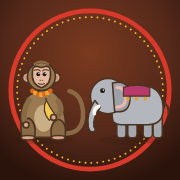
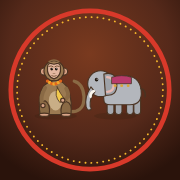
Jogo: macaco e elefantinho menores, dentro do círculo do ícone
Claude-Session: https://claude.ai/code/session_01HNv7nTm5a78VeKaMt6qDpU

Changed region(s): [[0.1111, 0.3056, 0.9444, 0.8056]]

diff --git a/app/sw.js b/app/sw.js
@@ -1,10 +1,10 @@
-// marca: f1057f08d1
+// marca: 44d439da07
 // Guarda o app inteiro no celular para abrir mesmo sem sinal (templo, estrada, wi-fi fraco do hotel).
 const CACHE = "caravana-v6", EXTRA = "caravana-ext", MAPA = "caravana-mapa", MARCAS = "caravana-marcas";
 // lista de arquivos gerada pelo tools/gerar-site.py
 const ARQUIVOS = /*ARQUIVOS*/["index.html", "shim.js", "config.js", "manifest.webmanifest", "jogo.html", "jogo.webmanifest", "dados/geo.json", "dados/saberes/dharma.json", "dados/saberes/ganesha.json", "dados/saberes/kali.json", "dados/saberes/krishna.json", "dados/saberes/lakshmi.json", "dados/saberes/sarasvati.json", "dados/travessia.json", "deuses/brahma.webp", "deuses/durga.webp", "deuses/ganesha.webp", "deuses/ganga.webp", "deuses/hanuman.webp", "deuses/kali.webp", "deuses/krishna.webp", "deuses/lakshmi.webp", "deuses/parvati.webp", "deuses/saraswati.webp", "deuses/shiva.webp", "deuses/surya.webp", "deuses/vishnu.webp", "img/abertura-agra.webp", "img/abertura-delhi.webp", "img/abertura-embarque.webp", "img/abertura-jaipur.webp", "img/abertura-rishikesh.webp", "img/abertura-varanasi.webp", "img/bilhete-og.jpg", "img/bilhete-textura.jpg", "img/cameras/botao-latao.webp", "img/cameras/campo-corpo.jpg", "img/cameras/campo.png", "img/cameras/carteira-foto.jpg", "img/cameras/carteira.webp", "img/cameras/celular-estante.png", "img/cameras/celular.png", "img/cameras/couro-caramelo.webp", "img/cameras/couro-corpo.jpg", "img/cameras/couro-delhi.webp", "img/cameras/couro.png", "img/cameras/descartavel-corpo.jpg", "img/cameras/descartavel-estante.png", "img/cameras/descartavel.png", "img/cameras/estante.jpg", "img/cameras/etiqueta1.png", "img/cameras/etiqueta2.png", "img/cameras/etiqueta3.png", "img/cameras/instantanea-corpo.jpg", "img/cameras/instantanea-estante.png", "img/cameras/instantanea.png", "img/cameras/mala-cheia.jpg", "img/cameras/mala-oito.webp", "img/cameras/mala-papel.webp", "img/cameras/mala.jpg", "img/cameras/maleta-foto.jpg", "img/cameras/quatro-corpo.jpg", "img/cameras/quatro-estante.png", "img/cameras/quatro.png", "img/cameras/rajastao-corpo.jpg", "img/cameras/rajastao-estante.png", "img/cameras/rajastao.png", "img/cameras/super8-corpo.jpg", "img/cameras/super8-estante.png", "img/cameras/super8.png", "img/caravana-marrom.png", "img/cristal.jpg", "img/emblema.jpg", "img/fundo.webp", "img/icone-180.png", "img/icone-192.png", "img/icone-512.png", "img/icone-jogo-180.png", "img/icone-jogo-192.png", "img/icone-jogo-512.png", "img/lacre-escuro.webp", "img/lacre.webp", "img/letreiro.png", "img/lockup-claro.png", "img/logo.png", "img/mantra-ganesha.webp", "img/mantra-vasudeva.webp", "img/papiro.webp", "img/passaporte-capa.webp", "img/passaporte.webp", "img/pedra.webp", "img/planetas/budha.webp", "img/planetas/chandra.webp", "img/planetas/guru.webp", "img/planetas/ketu.webp", "img/planetas/mangala.webp", "img/planetas/rahu.webp", "img/planetas/shani.webp", "img/planetas/shukra.webp", "img/planetas/surya.webp", "img/simbolo-claro.png", "img/simbolo-dourado.png", "img/simbolo-marrom.png", "img/simbolo.png", "img/tenda.webp", "img/textura.jpg", "insignias/batismo.webp", "insignias/beatles-ashram.webp", "insignias/caverna.webp", "insignias/diwali.webp", "insignias/durga-kund.webp", "insignias/embarque.webp", "insignias/galta-ji.webp", "insignias/ganesha.webp", "insignias/ganga-aarti.webp", "insignias/govind-dev-ji.webp", "insignias/india.webp", "insignias/jaipur.webp", "insignias/kunjapuri.webp", "insignias/manikarnika.webp", "insignias/rishikesh.webp", "insignias/sankat-mochan.webp", "insignias/taj-mahal.webp", "insignias/travessia.webp", "insignias/varanasi.webp"]/*FIM*/;
 // a marca de cada arquivo: numa atualização o celular só baixa de novo o que mudou (economiza o chip no exterior)
-const MARCA = /*MARCAS*/{"shim.js": "9ac90dcb64", "config.js": "431d3dc4e4", "manifest.webmanifest": "dcac99ae9c", "jogo.html": "295aeba11a", "jogo.webmanifest": "dbc535eeb9", "dados/geo.json": "f261282848", "dados/saberes/dharma.json": "78a51cb407", "dados/saberes/ganesha.json": "9f55ad4be4", "dados/saberes/kali.json": "b86d7ac459", "dados/saberes/krishna.json": "aabd863896", "dados/saberes/lakshmi.json": "bc4299d791", "dados/saberes/sarasvati.json": "20ae87e44b", "dados/travessia.json": "3d22af33a4", "deuses/brahma.webp": "19992fcb0b", "deuses/durga.webp": "8d31fb940a", "deuses/ganesha.webp": "17bade2b8f", "deuses/ganga.webp": "149e4dd452", "deuses/hanuman.webp": "060814231e", "deuses/kali.webp": "58775391b0", "deuses/krishna.webp": "6ae658d645", "deuses/lakshmi.webp": "8ae7cb1e38", "deuses/parvati.webp": "7deb4969b4", "deuses/saraswati.webp": "231d5dddb2", "deuses/shiva.webp": "fce88360c5", "deuses/surya.webp": "df567b134b", "deuses/vishnu.webp": "67851a3c0b", "img/abertura-agra.webp": "96c5035722", "img/abertura-delhi.webp": "5356c14bf4", "img/abertura-embarque.webp": "9e320b1e29", "img/abertura-jaipur.webp": "965ec260db", "img/abertura-rishikesh.webp": "ce4c1a96f6", "img/abertura-varanasi.webp": "018d81939a", "img/bilhete-og.jpg": "01526b34f3", "img/bilhete-textura.jpg": "27c6916490", "img/cameras/botao-latao.webp": "2666f49629", "img/cameras/campo-corpo.jpg": "63f1e7fa9b", "img/cameras/campo.png": "c18a7e8454", "img/cameras/carteira-foto.jpg": "a7fedf6036", "img/cameras/carteira.webp": "3b77bfd17e", "img/cameras/celular-estante.png": "da6451baf7", "img/cameras/celular.png": "b10bb112cb", "img/cameras/couro-caramelo.webp": "57fa500869", "img/cameras/couro-corpo.jpg": "bf49b75fa3", "img/cameras/couro-delhi.webp": "4a78ba9b77", "img/cameras/couro.png": "e4ff450f79", "img/cameras/descartavel-corpo.jpg": "ac07cb28f5", "img/cameras/descartavel-estante.png": "f1d69c668a", "img/cameras/descartavel.png": "876e87ab30", "img/cameras/estante.jpg": "0cb7b649a8", "img/cameras/etiqueta1.png": "4aeea10cc0", "img/cameras/etiqueta2.png": "67dc1501a5", "img/cameras/etiqueta3.png": "0ad50425a9", "img/cameras/instantanea-corpo.jpg": "856089fe2a", "img/cameras/instantanea-estante.png": "f9885341c1", "img/cameras/instantanea.png": "beb836f2bc", "img/cameras/mala-cheia.jpg": "3c2218ae98", "img/cameras/mala-oito.webp": "aef48e85db", "img/cameras/mala-papel.webp": "29fc8486ca", "img/cameras/mala.jpg": "f79a46d2d3", "img/cameras/maleta-foto.jpg": "a8fd724b58", "img/cameras/quatro-corpo.jpg": "6c6747f615", "img/cameras/quatro-estante.png": "b2082a40e1", "img/cameras/quatro.png": "bbe4f0f2a4", "img/cameras/rajastao-corpo.jpg": "2b36624ac6", "img/cameras/rajastao-estante.png": "76fe9802df", "img/cameras/rajastao.png": "b480e2d873", "img/cameras/super8-corpo.jpg": "4b5235d146", "img/cameras/super8-estante.png": "2a07cbf97a", "img/cameras/super8.png": "e12eb1f958", "img/caravana-marrom.png": "784b71c5db", "img/cristal.jpg": "4adff18968", "img/emblema.jpg": "a211a86451", "img/fundo.webp": "aa9c10bcae", "img/icone-180.png": "0df37adf84", "img/icone-192.png": "11a5c845bc", "img/icone-512.png": "7745e9675a", "img/icone-jogo-180.png": "381037f2d7", "img/icone-jogo-192.png": "d85ba51b52", "img/icone-jogo-512.png": "0f6e076d7d", "img/lacre-escuro.webp": "d459f488fc", "img/lacre.webp": "635ae8e394", "img/letreiro.png": "6defdd3553", "img/lockup-claro.png": "8d663db03a", "img/logo.png": "7a72b39c60", "img/mantra-ganesha.webp": "a7daafb44d", "img/mantra-vasudeva.webp": "6827763e6f", "img/papiro.webp": "7e11ae5ce6", "img/passaporte-capa.webp": "3c3ed6db3a", "img/passaporte.webp": "c5a0d63fd3", "img/pedra.webp": "3440e853b6", "img/planetas/budha.webp": "4c0a1ac24f", "img/planetas/chandra.webp": "56de1fa225", "img/planetas/guru.webp": "579c3697e6", "img/planetas/ketu.webp": "a96da73a0a", "img/planetas/mangala.webp": "fd4333e899", "img/planetas/rahu.webp": "2d54c13192", "img/planetas/shani.webp": "b270872959", "img/planetas/shukra.webp": "22c1b384af", "img/planetas/surya.webp": "af1ab537fa", "img/simbolo-claro.png": "8fa2d5ebf1", "img/simbolo-dourado.png": "fefceb26fb", "img/simbolo-marrom.png": "54f22364f2", "img/simbolo.png": "cf73e5581e", "img/tenda.webp": "306f2ba051", "img/textura.jpg": "2dd579ec54", "insignias/batismo.webp": "5372da595f", "insignias/beatles-ashram.webp": "753270b7d0", "insignias/caverna.webp": "804c730450", "insignias/diwali.webp": "56d57efb26", "insignias/durga-kund.webp": "54db1886b6", "insignias/embarque.webp": "8f3b0b6dfb", "insignias/galta-ji.webp": "8aed7ab707", "insignias/ganesha.webp": "b866c0bba1", "insignias/ganga-aarti.webp": "0f3405a8b0", "insignias/govind-dev-ji.webp": "2e6c1891c5", "insignias/india.webp": "0507deebf0", "insignias/jaipur.webp": "b5a70853d8", "insignias/kunjapuri.webp": "a887052d5c", "insignias/manikarnika.webp": "e7a872925e", "insignias/rishikesh.webp": "98d094103a", "insignias/sankat-mochan.webp": "38c74ad7d0", "insignias/taj-mahal.webp": "2d4bb63d47", "insignias/travessia.webp": "44e46c3480", "insignias/varanasi.webp": "fcd5b20cfc"}/*FIMM*/;
+const MARCA = /*MARCAS*/{"shim.js": "9ac90dcb64", "config.js": "431d3dc4e4", "manifest.webmanifest": "dcac99ae9c", "jogo.html": "295aeba11a", "jogo.webmanifest": "dbc535eeb9", "dados/geo.json": "f261282848", "dados/saberes/dharma.json": "78a51cb407", "dados/saberes/ganesha.json": "9f55ad4be4", "dados/saberes/kali.json": "b86d7ac459", "dados/saberes/krishna.json": "aabd863896", "dados/saberes/lakshmi.json": "bc4299d791", "dados/saberes/sarasvati.json": "20ae87e44b", "dados/travessia.json": "3d22af33a4", "deuses/brahma.webp": "19992fcb0b", "deuses/durga.webp": "8d31fb940a", "deuses/ganesha.webp": "17bade2b8f", "deuses/ganga.webp": "149e4dd452", "deuses/hanuman.webp": "060814231e", "deuses/kali.webp": "58775391b0", "deuses/krishna.webp": "6ae658d645", "deuses/lakshmi.webp": "8ae7cb1e38", "deuses/parvati.webp": "7deb4969b4", "deuses/saraswati.webp": "231d5dddb2", "deuses/shiva.webp": "fce88360c5", "deuses/surya.webp": "df567b134b", "deuses/vishnu.webp": "67851a3c0b", "img/abertura-agra.webp": "96c5035722", "img/abertura-delhi.webp": "5356c14bf4", "img/abertura-embarque.webp": "9e320b1e29", "img/abertura-jaipur.webp": "965ec260db", "img/abertura-rishikesh.webp": "ce4c1a96f6", "img/abertura-varanasi.webp": "018d81939a", "img/bilhete-og.jpg": "01526b34f3", "img/bilhete-textura.jpg": "27c6916490", "img/cameras/botao-latao.webp": "2666f49629", "img/cameras/campo-corpo.jpg": "63f1e7fa9b", "img/cameras/campo.png": "c18a7e8454", "img/cameras/carteira-foto.jpg": "a7fedf6036", "img/cameras/carteira.webp": "3b77bfd17e", "img/cameras/celular-estante.png": "da6451baf7", "img/cameras/celular.png": "b10bb112cb", "img/cameras/couro-caramelo.webp": "57fa500869", "img/cameras/couro-corpo.jpg": "bf49b75fa3", "img/cameras/couro-delhi.webp": "4a78ba9b77", "img/cameras/couro.png": "e4ff450f79", "img/cameras/descartavel-corpo.jpg": "ac07cb28f5", "img/cameras/descartavel-estante.png": "f1d69c668a", "img/cameras/descartavel.png": "876e87ab30", "img/cameras/estante.jpg": "0cb7b649a8", "img/cameras/etiqueta1.png": "4aeea10cc0", "img/cameras/etiqueta2.png": "67dc1501a5", "img/cameras/etiqueta3.png": "0ad50425a9", "img/cameras/instantanea-corpo.jpg": "856089fe2a", "img/cameras/instantanea-estante.png": "f9885341c1", "img/cameras/instantanea.png": "beb836f2bc", "img/cameras/mala-cheia.jpg": "3c2218ae98", "img/cameras/mala-oito.webp": "aef48e85db", "img/cameras/mala-papel.webp": "29fc8486ca", "img/cameras/mala.jpg": "f79a46d2d3", "img/cameras/maleta-foto.jpg": "a8fd724b58", "img/cameras/quatro-corpo.jpg": "6c6747f615", "img/cameras/quatro-estante.png": "b2082a40e1", "img/cameras/quatro.png": "bbe4f0f2a4", "img/cameras/rajastao-corpo.jpg": "2b36624ac6", "img/cameras/rajastao-estante.png": "76fe9802df", "img/cameras/rajastao.png": "b480e2d873", "img/cameras/super8-corpo.jpg": "4b5235d146", "img/cameras/super8-estante.png": "2a07cbf97a", "img/cameras/super8.png": "e12eb1f958", "img/caravana-marrom.png": "784b71c5db", "img/cristal.jpg": "4adff18968", "img/emblema.jpg": "a211a86451", "img/fundo.webp": "aa9c10bcae", "img/icone-180.png": "0df37adf84", "img/icone-192.png": "11a5c845bc", "img/icone-512.png": "7745e9675a", "img/icone-jogo-180.png": "478a32078c", "img/icone-jogo-192.png": "4761844734", "img/icone-jogo-512.png": "600d600ec5", "img/lacre-escuro.webp": "d459f488fc", "img/lacre.webp": "635ae8e394", "img/letreiro.png": "6defdd3553", "img/lockup-claro.png": "8d663db03a", "img/logo.png": "7a72b39c60", "img/mantra-ganesha.webp": "a7daafb44d", "img/mantra-vasudeva.webp": "6827763e6f", "img/papiro.webp": "7e11ae5ce6", "img/passaporte-capa.webp": "3c3ed6db3a", "img/passaporte.webp": "c5a0d63fd3", "img/pedra.webp": "3440e853b6", "img/planetas/budha.webp": "4c0a1ac24f", "img/planetas/chandra.webp": "56de1fa225", "img/planetas/guru.webp": "579c3697e6", "img/planetas/ketu.webp": "a96da73a0a", "img/planetas/mangala.webp": "fd4333e899", "img/planetas/rahu.webp": "2d54c13192", "img/planetas/shani.webp": "b270872959", "img/planetas/shukra.webp": "22c1b384af", "img/planetas/surya.webp": "af1ab537fa", "img/simbolo-claro.png": "8fa2d5ebf1", "img/simbolo-dourado.png": "fefceb26fb", "img/simbolo-marrom.png": "54f22364f2", "img/simbolo.png": "cf73e5581e", "img/tenda.webp": "306f2ba051", "img/textura.jpg": "2dd579ec54", "insignias/batismo.webp": "5372da595f", "insignias/beatles-ashram.webp": "753270b7d0", "insignias/caverna.webp": "804c730450", "insignias/diwali.webp": "56d57efb26", "insignias/durga-kund.webp": "54db1886b6", "insignias/embarque.webp": "8f3b0b6dfb", "insignias/galta-ji.webp": "8aed7ab707", "insignias/ganesha.webp": "b866c0bba1", "insignias/ganga-aarti.webp": "0f3405a8b0", "insignias/govind-dev-ji.webp": "2e6c1891c5", "insignias/india.webp": "0507deebf0", "insignias/jaipur.webp": "b5a70853d8", "insignias/kunjapuri.webp": "a887052d5c", "insignias/manikarnika.webp": "e7a872925e", "insignias/rishikesh.webp": "98d094103a", "insignias/sankat-mochan.webp": "38c74ad7d0", "insignias/taj-mahal.webp": "2d4bb63d47", "insignias/travessia.webp": "44e46c3480", "insignias/varanasi.webp": "fcd5b20cfc"}/*FIMM*/;
 const LISTA = new Set(ARQUIVOS.filter(a => a !== "index.html"));
 async function guardaUm(c, m, a, sempre) {
   const mk = MARCA[a];

diff --git a/app/index.html b/app/index.html
@@ -11,7 +11,7 @@
 <link rel="apple-touch-icon" sizes="180x180" href="/img/icone-180.png">
 <link rel="apple-touch-icon" href="/apple-touch-icon.png">
 <link rel="manifest" href="manifest.webmanifest">
-<script>window.__VERSAO = "22/10 · 16:52";</script>
+<script>window.__VERSAO = "22/10 · 16:57";</script>
 <script src="config.js"></script>
 <script src="shim.js"></script>
 <style>*,*::before,*::after{box-sizing:border-box}html,body{margin:0;height:100%}
